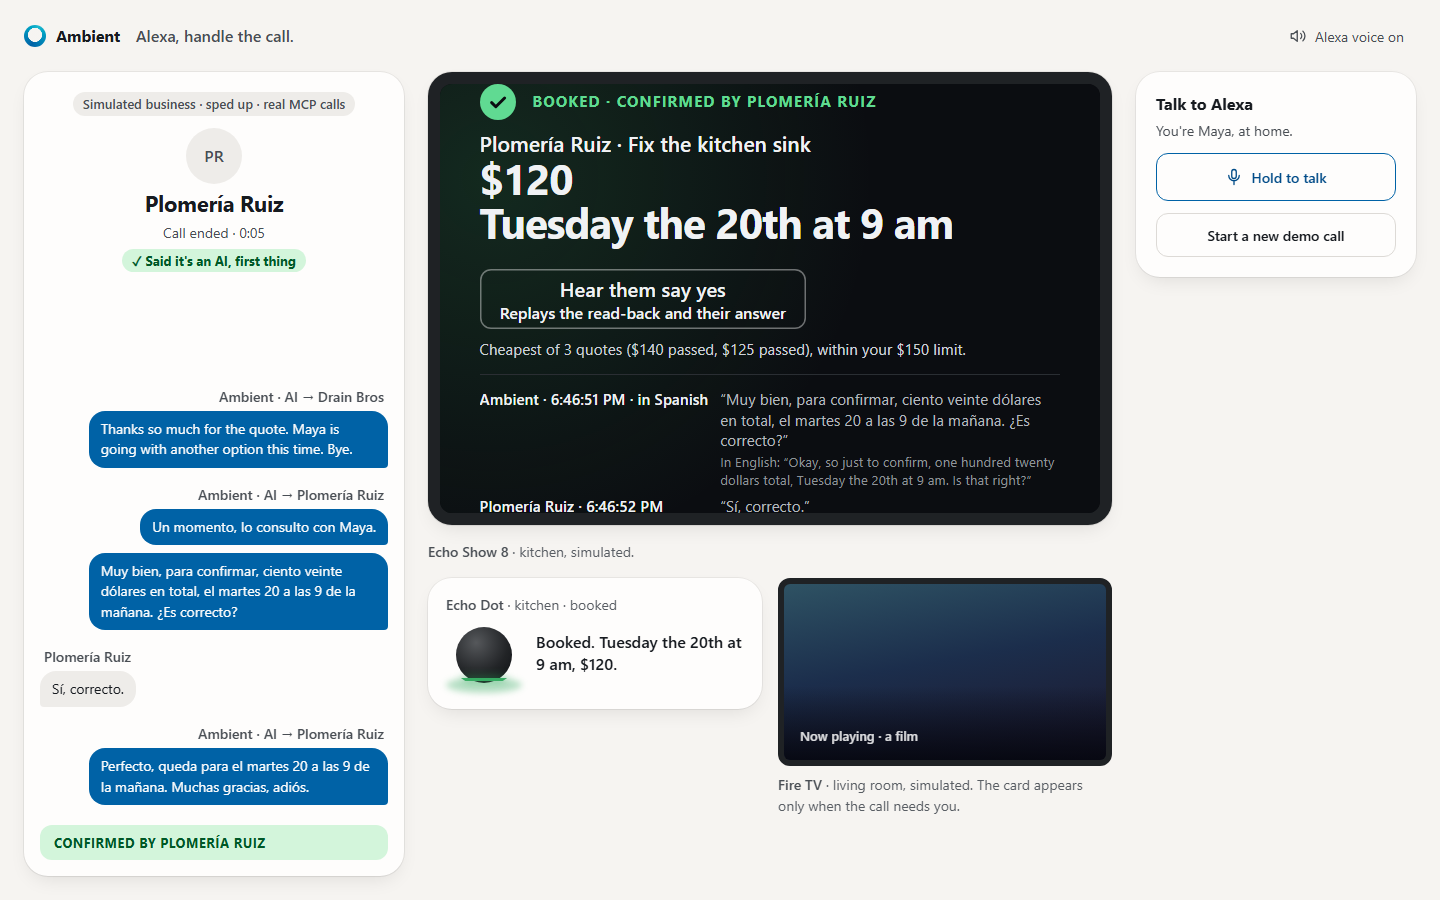
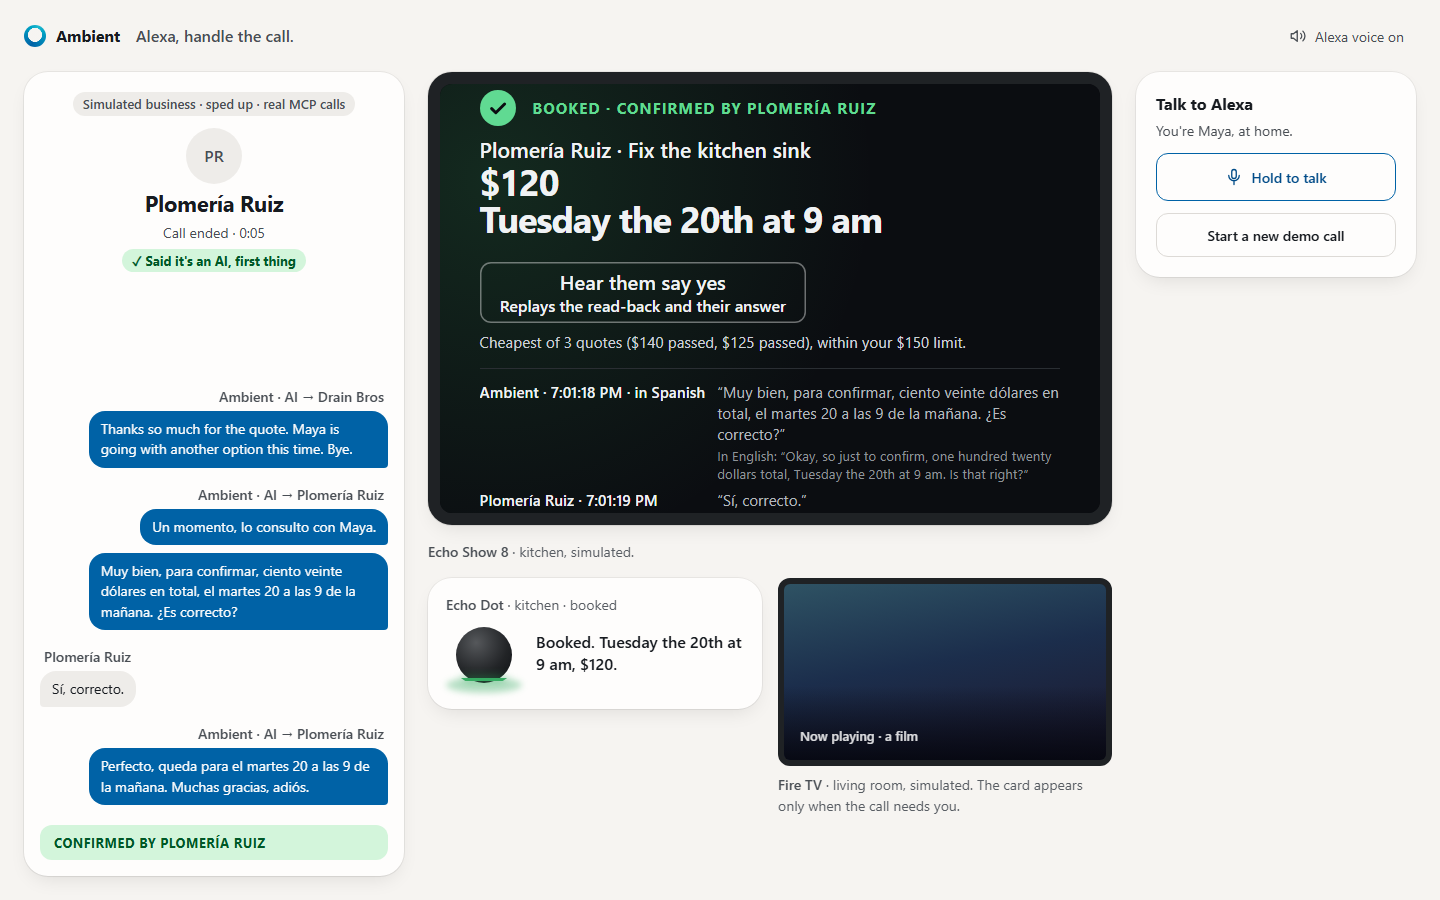
Re-record both GIFs on the finished booked card, and log the six features

Changed region(s): [[0.3125, 0.0933, 0.75, 0.5911], [0.3438, 0.5289, 0.4688, 0.5911]]

diff --git a/src/task-view.ts b/src/task-view.ts
@@ -77,7 +77,7 @@ body.multi[data-state="done"] .board{display:none}
 body.proof:not([data-device="tv"]){justify-content:flex-start}
 body.proof .foot{margin-top:.4em;margin-bottom:0}
 body.proof .line span{-webkit-line-clamp:5}
-@media (min-width:481px){body.proof:not([data-device="tv"]){gap:1.4vw;padding-top:5vw}body.proof .stake{font-size:2em}body.proof .check{width:1.7em;height:1.7em}}
+@media (min-width:481px){body.proof:not([data-device="tv"]){gap:1.4vw;padding-top:5vw}body.proof .stake{font-size:2em}body.proof.multi .stake{font-size:1.7em}body.proof .check{width:1.7em;height:1.7em}}
 .gloss{display:block;font-size:.88em;color:oklch(0.66 0.01 255);margin-top:.2em}
 .tile[data-state="released"] .price{text-decoration:line-through;text-decoration-thickness:2px}
 .tile[data-state="released"] .state,.tile[data-state="ended"] .state{color:var(--dim)}

diff --git a/progress.md b/progress.md
@@ -64,7 +64,7 @@ Known voice defects to fix in the voice-UX pass: the approval repeats the amount
 
 ## Log
 
-- 2026-10-19 (eleventh round, features): stopped the critic loop (rounds were re-confirming, see memory) and started the six features in `docs/plans/2026-10-19-errands/plan.md`. Foundation A, the errand reducer, landed in `aa10c6d` (seeded test over 4,000 orderings of three businesses; three planted faults each fail it). Call-around landed in `178cf35`, `3e53bfe` and `a1197fc`: "Get quotes from plumbers ... under 150" asks once, calls three businesses at once in compare mode, books the cheapest under the limit through its read-back, and releases the others; an in-limit pick goes in as "chosen" with no owner note, so the transcript never claims the owner approved it. Evidence: `pnpm smoke:around` passes on a fresh zero-key server (`docs/demo/around-transcript.txt`), the single-call smoke transcript is byte-identical, 810 tests pass, and the Echo Show board was checked by eye at 1440 and 390 px (`docs/media/around-*.png`). Then: proof of yes (`56523b1`; the 4,000-call test checks the proof is the exact read-back and reply that booked, and it caught a talked-over re-ask stored instead), the film pausing on the Fire TV (`15e2886`), and "don't call us" made final (`c41bdbb`; the business is never dialed again). README and submission now lead with call-around and list rules 7 and 8 (`d7ff9ae`); `docs/media/around.gif` is checked frame by frame. A hygiene test now fails on control characters, after a lost backslash broke code three times. 819 tests. Then another language (`c68c41b`, `eb0b611`): one table of fixed lines per language; a Spanish business hears the disclosure, read-back and closings in Spanish; a strict Spanish clean-yes check (yes and courtesy words only, no numbers or qualifiers) and a Spanish time allow-list; the owner side stays English and the proof carries an English rendering; the demo's cheapest plumber books in Spanish (`pnpm smoke:around` checks the Spanish read-back). Live gap: the AssemblyAI line is not yet set for Spanish speech recognition or a Spanish voice. 853 tests. Remaining features: follow-through, the business-side receipt.
+- 2026-10-19 (eleventh round, features): stopped the critic loop (rounds were re-confirming, see memory) and started the six features in `docs/plans/2026-10-19-errands/plan.md`. Foundation A, the errand reducer, landed in `aa10c6d` (seeded test over 4,000 orderings of three businesses; three planted faults each fail it). Call-around landed in `178cf35`, `3e53bfe` and `a1197fc`: "Get quotes from plumbers ... under 150" asks once, calls three businesses at once in compare mode, books the cheapest under the limit through its read-back, and releases the others; an in-limit pick goes in as "chosen" with no owner note, so the transcript never claims the owner approved it. Evidence: `pnpm smoke:around` passes on a fresh zero-key server (`docs/demo/around-transcript.txt`), the single-call smoke transcript is byte-identical, 810 tests pass, and the Echo Show board was checked by eye at 1440 and 390 px (`docs/media/around-*.png`). Then: proof of yes (`56523b1`; the 4,000-call test checks the proof is the exact read-back and reply that booked, and it caught a talked-over re-ask stored instead), the film pausing on the Fire TV (`15e2886`), and "don't call us" made final (`c41bdbb`; the business is never dialed again). README and submission now lead with call-around and list rules 7 and 8 (`d7ff9ae`); `docs/media/around.gif` is checked frame by frame. A hygiene test now fails on control characters, after a lost backslash broke code three times. 819 tests. Then another language (`c68c41b`, `eb0b611`): one table of fixed lines per language; a Spanish business hears the disclosure, read-back and closings in Spanish; a strict Spanish clean-yes check (yes and courtesy words only, no numbers or qualifiers) and a Spanish time allow-list; the owner side stays English and the proof carries an English rendering; the demo's cheapest plumber books in Spanish (`pnpm smoke:around` checks the Spanish read-back). Live gap: the AssemblyAI line is not yet set for Spanish speech recognition or a Spanish voice. 853 tests. Then follow-through (`197438c`: "Alexa, move the plumber to Thursday" calls the booked business back; the earlier approval carries over as a price grant, and the new time still books only through a read-back) and the business receipt (`88481ca`: the business's call page shows what it confirmed, in its language). All six features are in. Gates at HEAD: `pnpm scan` 858 tests, build green, `pnpm call:dry`, `pnpm scenarios` unchanged, `pnpm repro:friction` 10 of 10, all 16 rule tests named in the README exist, `pnpm smoke:mcp` and `pnpm smoke:around` pass on a fresh zero-key server; both GIFs re-recorded and their final frames checked.
 
 - 2026-10-19 (tenth round): voice rounds 12 and 13 put the owner side behind the bar on recovery, because no spoken phrase redialled with the original job. Fixed in `dd98f73` and `9392aac`: `RetryCallIntent` ("call them again") re-asks the last instruction, every ending is worded for the owner, a dropped call says "check with them", and result cues say what to tell Alexa. Judges round 9 docs fixes in `315497d` (GIF first, pilot plan, enforced limits only). Voice round 14 moved owner-side recovery to ours; its retry guards (no redial of a booked or live call, "call her again" routes to the retry) landed in `267f400`. Voice round 15 still gave naturalness to the bar on both sides; fixed in `a3e06ec` (spoken read-back openers that keep the full total and time, short closings, read-backs detected by their question, not one opener), `ca9bc44` (yes, offer or no for every owner decision) and `fbb8325` (the simulator says the same words). UI builder 19 merged as `1edeae6`; screenshots and the GIF were retaken and inspected after the wording change. Gates at `fbb8325`: `pnpm scan` green (784 tests), `pnpm smoke:mcp` on a fresh zero-key demo server matches `docs/demo/smoke-transcript.txt`, `pnpm repro:friction` reproduces 10 of 10, and all 12 rule tests named in the README exist and pass. Judges round 10: Technical 7.5, Design 8, Impact 6, Idea 8; "the repo is near its ceiling", and only a live run and a user test move Technical and Impact. Its doc fixes landed in `a7421b3` (README and submission lead with the product, rule 2 detail under the table, "call them again" documented, the video script uses a phrase the skill hears). Voice round 16 found a silent ending (a business refusal was never announced) and an owner blamed for the business's "no"; fixed in `b0de891` with tests (787 pass). UI round 20: comprehension, trust and delight ours, craft a tie because the call panel collapses below 1180 px. Voice round 17: the owner's own "no" in the demo was read back in third person and cued twice; fixed in `25d287d` by reading the owner's last decision note (a planted fault fails two tests). UI builder 20 merged as `5c4d656` (call panel 560 px at 1180 to 768 px and sized to content below, ended chip unclipped, one "Not booked" label). `110a839` makes every "Say status" prompt name the phrase on the screen's button; transcripts, screenshots and the GIF were retaken on fresh servers and inspected. 787 tests pass. Voice round 18 found a false "You said no" when someone spoke after the owner's decline; fixed in `d42abf0` (788 tests). Voice round 19: the owner side now ties or beats the bar on all five criteria (clarity, honesty, recovery ours; brevity, naturalness tie). The business side wins clarity and honesty, ties brevity and recovery, and loses naturalness to Duplex on backchannel, prosody and latency, which the critic calls audio-level; text cannot close it, so it waits on the live run. Its text fixes landed in `55b0978`. UI round 21: comprehension, trust and delight ours, craft a tie (phone hierarchy, layout that reorders by state, the ending repeated three times). Running: UI builder 21 (worktree).
 
